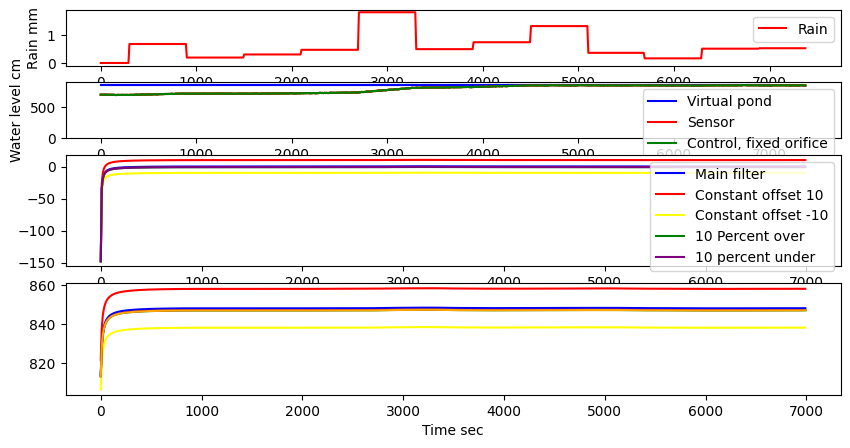
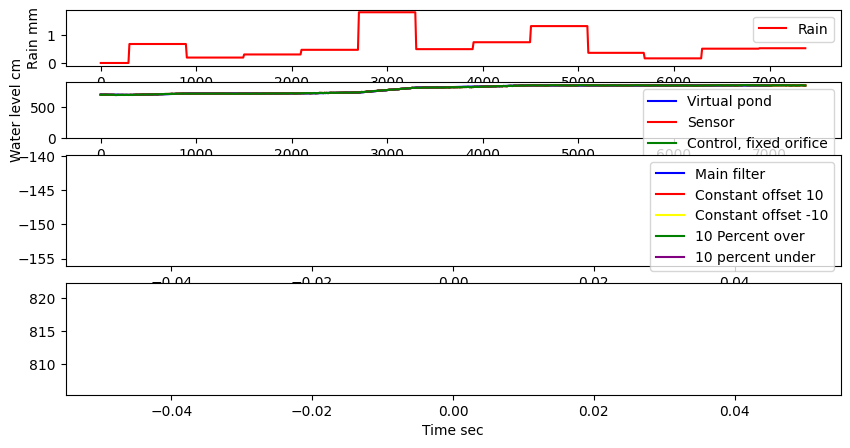
KalmanError implemented, some main/filter fixes

diff --git a/src/python_package/kalman_filter/kalman_bank.py b/src/python_package/kalman_filter/kalman_bank.py
@@ -5,6 +5,8 @@ from ..time import Time
 from enum import Enum
 from .fault import Fault
 
+DEBUG_MODE = False
+
 
 class KalmanError(Exception, Enum):
     "Exception class for Kalman Filters"
@@ -84,23 +86,32 @@ class KalmanBank:
         self._write_to_csv(measured_data, predict_before_step)
 
         # error reporting
-        """ if not fault_detection and not self.kalman_bank[0] == self.kalman_bank[1]:
-            filter_report_string = "Waterlevel threshold exceeded in filters: \n"
-            for i, f in enumerate(faulty_filters):
-                filter_report_string += f.print_kalman_filter() + " Expected filter to be: " + failed_faults[i] + "\n"
-            filter_report_string += (
-                "Kalman filter without arbitrary measurement data faults: \n"
-                + self.kalman_bank[0].print_kalman_filter()
-            )
-            raise ValueError(
-                "The measured water level exceeded the threshold in "
-                + str(len(faulty_filters))
-                + " kalman filters.\n"
-                + "Measured water level: "
-                + str(measured_data.height())
-                + "\n"
-                + filter_report_string
-            ) """
+        if not fault_detection and not self.kalman_bank[0] == self.kalman_bank[1]:
+            if DEBUG_MODE:
+                filter_report_string = "Waterlevel threshold exceeded in filters: \n"
+                for i, f in enumerate(faulty_filters):
+                    filter_report_string += (
+                        f.print_kalman_filter() + " Expected filter to be: " + failed_faults[i] + "\n"
+                    )
+                filter_report_string += (
+                    "Kalman filter without arbitrary measurement data faults: \n"
+                    + self.kalman_bank[0].print_kalman_filter()
+                )
+                print(
+                    "The measured water level exceeded the threshold in "
+                    + str(len(faulty_filters))
+                    + " kalman filters.\n"
+                    + "Measured water level: "
+                    + str(measured_data.height())
+                    + "\n"
+                    + filter_report_string
+                )
+            for i, f in enumerate(failed_faults):
+                match f:
+                    case "higher":
+                        raise KalmanError.HIGHER_THRESHOLD_EXCEEDED
+                    case "lower": 
+                        raise KalmanError.LOWER_THRESHOLD_EXCEEDED
 
     def analyze_filters(
         self, measured_data: MeasurementData, faulty_filters: List[Kalman], failed_faults: List[str]

diff --git a/src/main.py b/src/main.py
@@ -5,7 +5,7 @@ from enum import Enum
 from python_package.logger import LogLevel, PrintLogger
 from python_package.serial import SerialCom, serial_exceptions
 from python_package.serial.headless import Headless
-from python_package.kalman_filter.kalman_bank import KalmanBank, Fault
+from python_package.kalman_filter.kalman_bank import KalmanBank, Fault, KalmanError
 from python_package.kalman_filter.kalman import MeasurementData, PondState
 from python_package.time import Time
 from python_package.virtual_pond import VirtualPond
@@ -70,10 +70,10 @@ def plotting(args: ARGS):
 
 LOGGER = PrintLogger()
 FAULTS = [
-    Fault(lambda x: x + 10.0, "higher"),
-    Fault(lambda x: x - 10.0, "lower"),
-    Fault(lambda x: x * 1.1, "higher"),
-    Fault(lambda x: x * 0.9, "lower"),
+    Fault(lambda x: x + 300.0, "higher"),
+    Fault(lambda x: x - 300.0, "lower"),
+    Fault(lambda x: x * 1.2, "higher"),
+    Fault(lambda x: x * 0.80, "lower"),
 ]
 
 # -- POND DATA
@@ -177,9 +177,10 @@ if __name__ == "__main__":
                 except serial_exceptions.exceptions as e:
                     out_mode = OutMode.VIRTUAL
                     handle_controler_exeption(e)
-                except Exception as e:
-                    out_mode = OutMode.VIRTUAL
-                    print(e)
+                except KalmanError as e:
+                    if(TIME.get_current_time.seconds > 100) :
+                        out_mode = OutMode.VIRTUAL
+                        print(e)
 
             if out_mode is OutMode.VIRTUAL:
                 out = virtual_pond.water_level

diff --git a/src/python_package/kalman_filter/kalman.py b/src/python_package/kalman_filter/kalman.py
@@ -50,9 +50,9 @@ class MeasurementData:
 
     def __mul__(self, other: float | tuple[float, float]) -> "MeasurementData":
         if other is tuple[float, float]:
-            return MeasurementData(self.height() - other[0], self.variance_height() - other[1])
+            return MeasurementData(self.height() * other[0], self.variance_height() - other[1])
         if isinstance(other, float):
-            return MeasurementData(self.height() - other, self.variance_height())
+            return MeasurementData(self.height() * other, self.variance_height())
         return self
 
     def __div__(self, other: float | tuple[float, float]) -> "MeasurementData":

diff --git a/src/python_package/result/__init__.py b/src/python_package/result/__init__.py
@@ -134,3 +134,4 @@ class SensorError(Error):
         """Sets message to "Sensor is blocked" """
         self.msg = "Sensor is blocked"
         return self
+    
